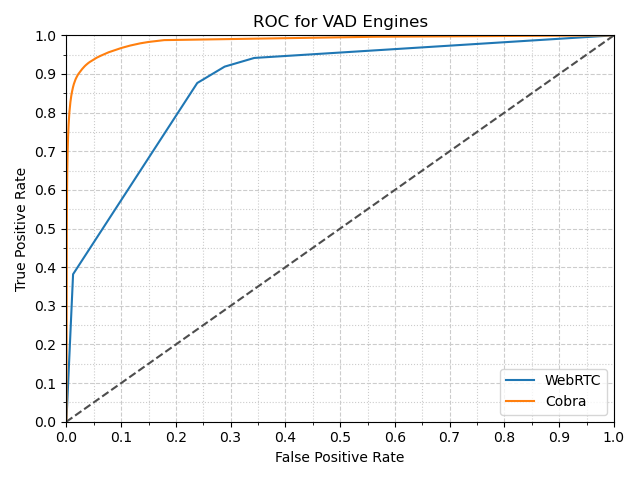
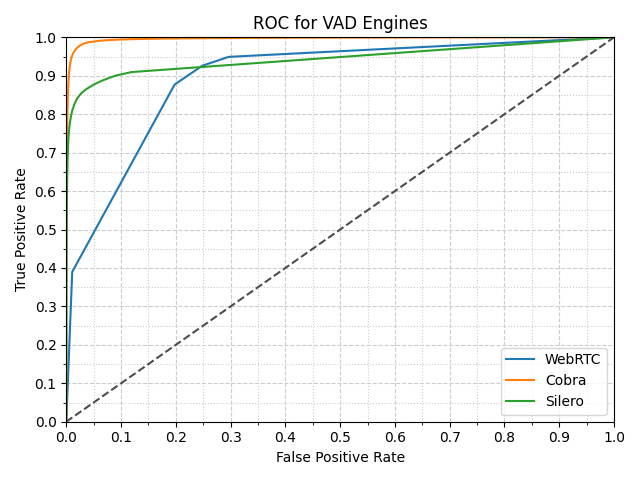
Cobra v2.1. Addition of Silero. Removed noise file with voice.

diff --git a/engine.py b/engine.py
@@ -15,14 +15,20 @@ from enum import Enum
 
 import numpy as np
 import pvcobra
+import torch
 import webrtcvad
+from silero_vad import load_silero_vad
 
-from mixer import DEFAULT_SAMPLERATE
+from mixer import (
+    DEFAULT_FRAME_LEN,
+    DEFAULT_SAMPLERATE
+)
 
 
 class Engines(Enum):
     WEBRTC = 'WebRTC'
     COBRA = 'Cobra'
+    SILERO = 'Silero'
 
 
 ThresholdInfo = namedtuple('ThresholdInfo', 'min, max, step')
@@ -44,6 +50,8 @@ class Engine(object):
             return ThresholdInfo(0.0, 1.0, 0.005)
         elif engine_type is Engines.WEBRTC:
             return ThresholdInfo(0, 3, 1)
+        elif engine_type is Engines.SILERO:
+            return ThresholdInfo(0.0, 1.0, 0.005)
         else:
             raise ValueError("no threshold range for '%s'", engine_type.value)
 
@@ -55,8 +63,10 @@ class Engine(object):
             return CobraEngine(threshold, kwargs['access_key'])
         elif engine is Engines.WEBRTC:
             return WebRTCEngine(threshold)
+        elif engine is Engines.SILERO:
+            return SileroEngine(threshold)
         else:
-            ValueError("cannot create engine of type '%s'", engine.value)
+            raise ValueError("cannot create engine of type '%s'", engine.value)
 
 
 class CobraEngine(Engine):
@@ -106,3 +116,33 @@ class WebRTCEngine(Engine):
 
     def __str__(self):
         return 'WebRTC'
+
+
+class SileroEngine(Engine):
+    cache = dict()
+
+    def __init__(self, threshold):
+        self._model = load_silero_vad(onnx=True)
+        self._threshold = threshold
+
+    def process(self, pcm, frame_key):
+        assert pcm.dtype == np.int16
+
+        if frame_key in self.cache:
+            voice_probability = self.cache[frame_key]
+        else:
+            pcm_float = pcm.astype(np.float32) / 32767.0
+            voice_probability = self._model(torch.from_numpy(pcm_float), DEFAULT_SAMPLERATE).item()
+            self.cache[frame_key] = voice_probability
+
+        return voice_probability >= self._threshold
+
+    def frame_length(self):
+        assert DEFAULT_SAMPLERATE == 16000
+        return DEFAULT_FRAME_LEN
+
+    def release(self):
+        del self._model
+
+    def __str__(self):
+        return 'Silero'

diff --git a/runtime/runtime_test.py b/runtime/runtime_test.py
@@ -1,0 +1,48 @@
+import argparse
+import time
+
+import numpy as np
+import soundfile
+
+from engine import (
+    Engine,
+    Engines
+)
+from mixer import DEFAULT_SAMPLERATE
+
+
+def main():
+    parser = argparse.ArgumentParser()
+    parser.add_argument('--wav_path', required=True)
+    parser.add_argument('--engine', choices=[x.value for x in Engines])
+    parser.add_argument('--access_key', default=None)
+    args = parser.parse_args()
+
+    wav_path = args.wav_path
+    engine = args.engine
+    access_key = args.access_key
+
+    pcm, sample_rate = soundfile.read(wav_path, dtype=np.int16)
+    model = Engine.create(Engines(engine), threshold=0, access_key=access_key)
+
+    assert sample_rate == DEFAULT_SAMPLERATE
+
+    frame_length = model.frame_length()
+    frame_count = pcm.size // frame_length
+
+    total_cpu_time_sec = 0.0
+    total_processed_time_sec = 0.0
+    for i in range(frame_count):
+        _pcm = pcm[i * frame_length: (i + 1) * frame_length]
+        start_time = time.monotonic()
+        model.process(_pcm, i)
+        end_time = time.monotonic()
+
+        total_cpu_time_sec += (end_time - start_time)
+        total_processed_time_sec += (frame_length / DEFAULT_SAMPLERATE)
+    real_time_factor = total_cpu_time_sec / total_processed_time_sec
+    print(f"{engine} real-time factor is {real_time_factor}\n")
+
+
+if __name__ == '__main__':
+    main()

diff --git a/benchmark.py b/benchmark.py
@@ -12,10 +12,24 @@
 
 import argparse
 import logging
+import os
 
-from dataset import *
-from engine import *
-from mixer import create_test_files, AudioLabels, DEFAULT_FRAME_LEN
+import numpy as np
+import soundfile
+
+from dataset import (
+    Dataset,
+    Datasets
+)
+from engine import (
+    Engine,
+    Engines
+)
+from mixer import (
+    DEFAULT_FRAME_LEN,
+    AudioLabels,
+    create_test_files
+)
 
 logging.basicConfig(format='%(asctime)s:%(levelname)s:%(message)s', level=logging.INFO)
 

diff --git a/plot.py b/plot.py
@@ -13,7 +13,10 @@
 import os
 
 import matplotlib.pyplot as plt
-from matplotlib.ticker import (AutoMinorLocator, MultipleLocator)
+from matplotlib.ticker import (
+    AutoMinorLocator,
+    MultipleLocator
+)
 
 from engine import Engines
 

diff --git a/dataset.py b/dataset.py
@@ -61,6 +61,7 @@ class DEMANDDataset(Dataset):
         super(DEMANDDataset, self).__init__()
 
         blocklist = [
+            "DLIVING",
             "OMEETING",
             "PCAFETER",
             "PRESTO",

diff --git a/README.md b/README.md
@@ -5,7 +5,7 @@
 Made in Vancouver, Canada by [Picovoice](https://picovoice.ai)
 
 The purpose of this benchmarking framework is to provide a scientific comparison between different voice activity
-engines in terms of accuracy metrics. While working on [Cobra](https://github.com/Picovoice/Cobra)
+engines in terms of accuracy metrics. While working on [Cobra](https://github.com/Picovoice/Cobra),
 we noted that there is a need for such a tool to empower customers to make data-driven decisions.
 
 
@@ -14,18 +14,19 @@ we noted that there is a need for such a tool to empower customers to make data-
 [LibriSpeech](http://www.openslr.org/12/) (test_clean portion) is used as the voice dataset.
 It can be downloaded from [OpenSLR](http://www.openslr.org/resources/12/test-clean.tar.gz).
 
-In order to simulate real-world situations, the data is mixed with noise (at 0dB SNR). For this purpose, we use
-[DEMAND](https://asa.scitation.org/doi/abs/10.1121/1.4799597) dataset which has noise recording in 18 different
-environments (e.g. kitchen, office, traffic, etc.). Recordings that contained distinct voice data is filtered out.
-It can be downloaded from [Kaggle](https://www.kaggle.com/aanhari/demand-dataset).
+In order to simulate real-world situations, the data is mixed with noise (at 0dB SNR). For this purpose, we use the
+[DEMAND](https://pubs.aip.org/asa/poma/article/19/1/035081/838946/The-Diverse-Environments-Multi-channel-Acoustic) dataset, which has noise recording in 18 different
+environments (e.g. kitchen, office, traffic, etc.). Recordings containing distinct voice data are filtered out.
+It can be downloaded from [Kaggle](https://www.kaggle.com/datasets/aanhari/demand-dataset).
 
 
 # Voice Activity Engines
 
-Two voice-activity engines are used:
-[py-webrtcvad](https://github.com/wiseman/py-webrtcvad) (Python bindings to the WEBRTC VAD)
+Three voice-activity engines are used:
+- [py-webrtcvad](https://github.com/wiseman/py-webrtcvad) (Python bindings to the WEBRTC VAD),
 which can be installed using [PyPI](https://pypi.org/project/webrtcvad/).
-And [Cobra](https://github.com/Picovoice/Cobra) which is included as submodules in this repository.
+- [Cobra](https://github.com/Picovoice/Cobra), which is included as submodules in this repository.
+- [Silero VAD](https://github.com/snakers4/silero-vad), which can be installed using [PyPI](https://pypi.org/project/silero-vad/). Version 5.1.
 
 
 # Metric
@@ -33,7 +34,7 @@ And [Cobra](https://github.com/Picovoice/Cobra) which is included as submodules 
 We measured the accuracy of the voice activity engines using false positive and true positive rates.
 The false positive rate is measured as the number of false positive frames detected over the total number of non-voice frames.
 Likewise, true positive rate is measured as the number of true positive frames detected over the total number of voice-frames.
-Using these definitions we plot a receiver operating characteristic curve which can be used to characterize performance differences between engines.
+Using these definitions, we plot a receiver operating characteristic curve which can be used to characterize performance differences between engines.
 
 
 # Usage
@@ -46,7 +47,7 @@ The benchmark has been developed on Ubuntu 18.04 with Python 3.8. Clone the repo
 git clone https://github.com/Picovoice/voice-activity-benchmark.git
 ```
 
-Make sure the Python packages in the [requirements.txt](/requirements.txt) are properly installed for your Python
+Make sure the Python packages in the [requirements.txt](requirements.txt) are properly installed for your Python
 version as Python bindings are used for running the engines.
 
 ### Running the Benchmark
@@ -57,24 +58,33 @@ Usage information can be retrieved via
 python benchmark.py -h
 ```
 
-The runtime benchmark is contained in the [runtime](/runtime) folder. Use the following commands to build and run the runtime benchmark:
+The runtime benchmark for C is contained in the [runtime](runtime) folder. Use the following commands to build and run the runtime benchmark:
 ```bash
 git clone --recursive https://github.com/Picovoice/cobra.git runtime/cobra
 cmake -S runtime -B runtime/build && cmake --build runtime/build
 ./runtime/build/cobra_runtime -l {COBRA_LIBRARY_PATH} -a {ACCESS_KEY} -w {TEST_WAVFILE_PATH}
 ```
 
+The runtime benchmark for Python can be run with the following command:
+```bash
+python3 -m runtime.runtime_test --wav_path {TEST_WAVFILE_PATH} --engine {"Cobra" | "Silero" | "WebRTC"} --access_key {ACCESS_KEY}
+```
+
 # Results
 
 ## Accuracy
 
-Below is the result of running the benchmark framework. The plot below shows the receiver operating characteristic curve
-of different engines. This plot was generated with the Signal-To-Noise ratio of 0dB.
+Below is the result of running the benchmark framework. The plots below shows the receiver operating characteristic curve
+of different engines. The top shows the overall graph. The bottom shows the top-left corner with a minimum true-positive rate of 50% and a maximum false-positive rate of 5%. The plots were generated with a signal-to-noise ratio of 0dB.
 
 ![](doc/img/summary.png)
+![](doc/img/zoomed.png)
 
 
 ## Runtime
 
 On a Raspberry Pi Zero, Cobra measured a realtime factor of `0.05`, or about `5%` CPU usage.
 On a laptop with an Intel(R) Core(TM) i7-1185G7, Cobra measured a realtime factor of `0.0006`.
+On an Ubuntu 22.04 machine with AMD CPU (`AMD Ryzen 9 5900X (12) @ 3.70GHz`), the following RTFs were recorded:
+![](doc/img/rtf.png)
+
